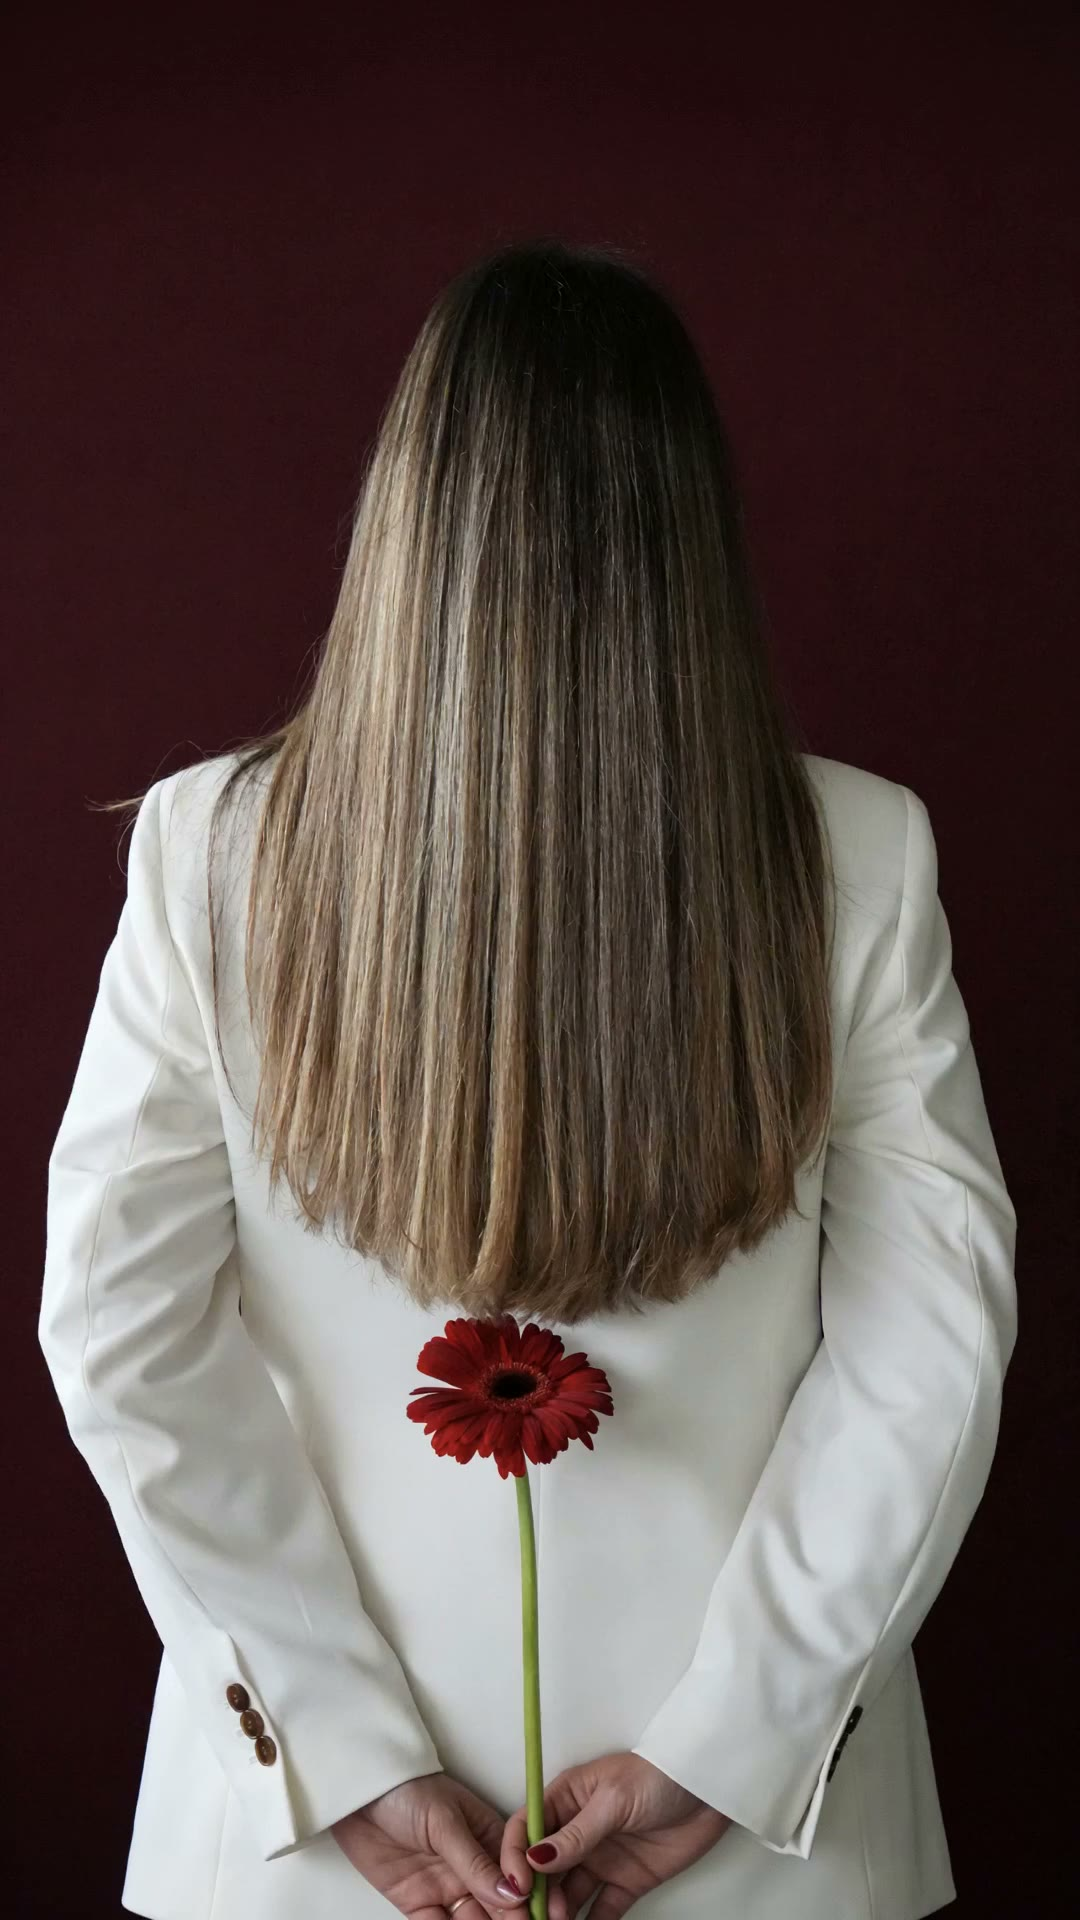
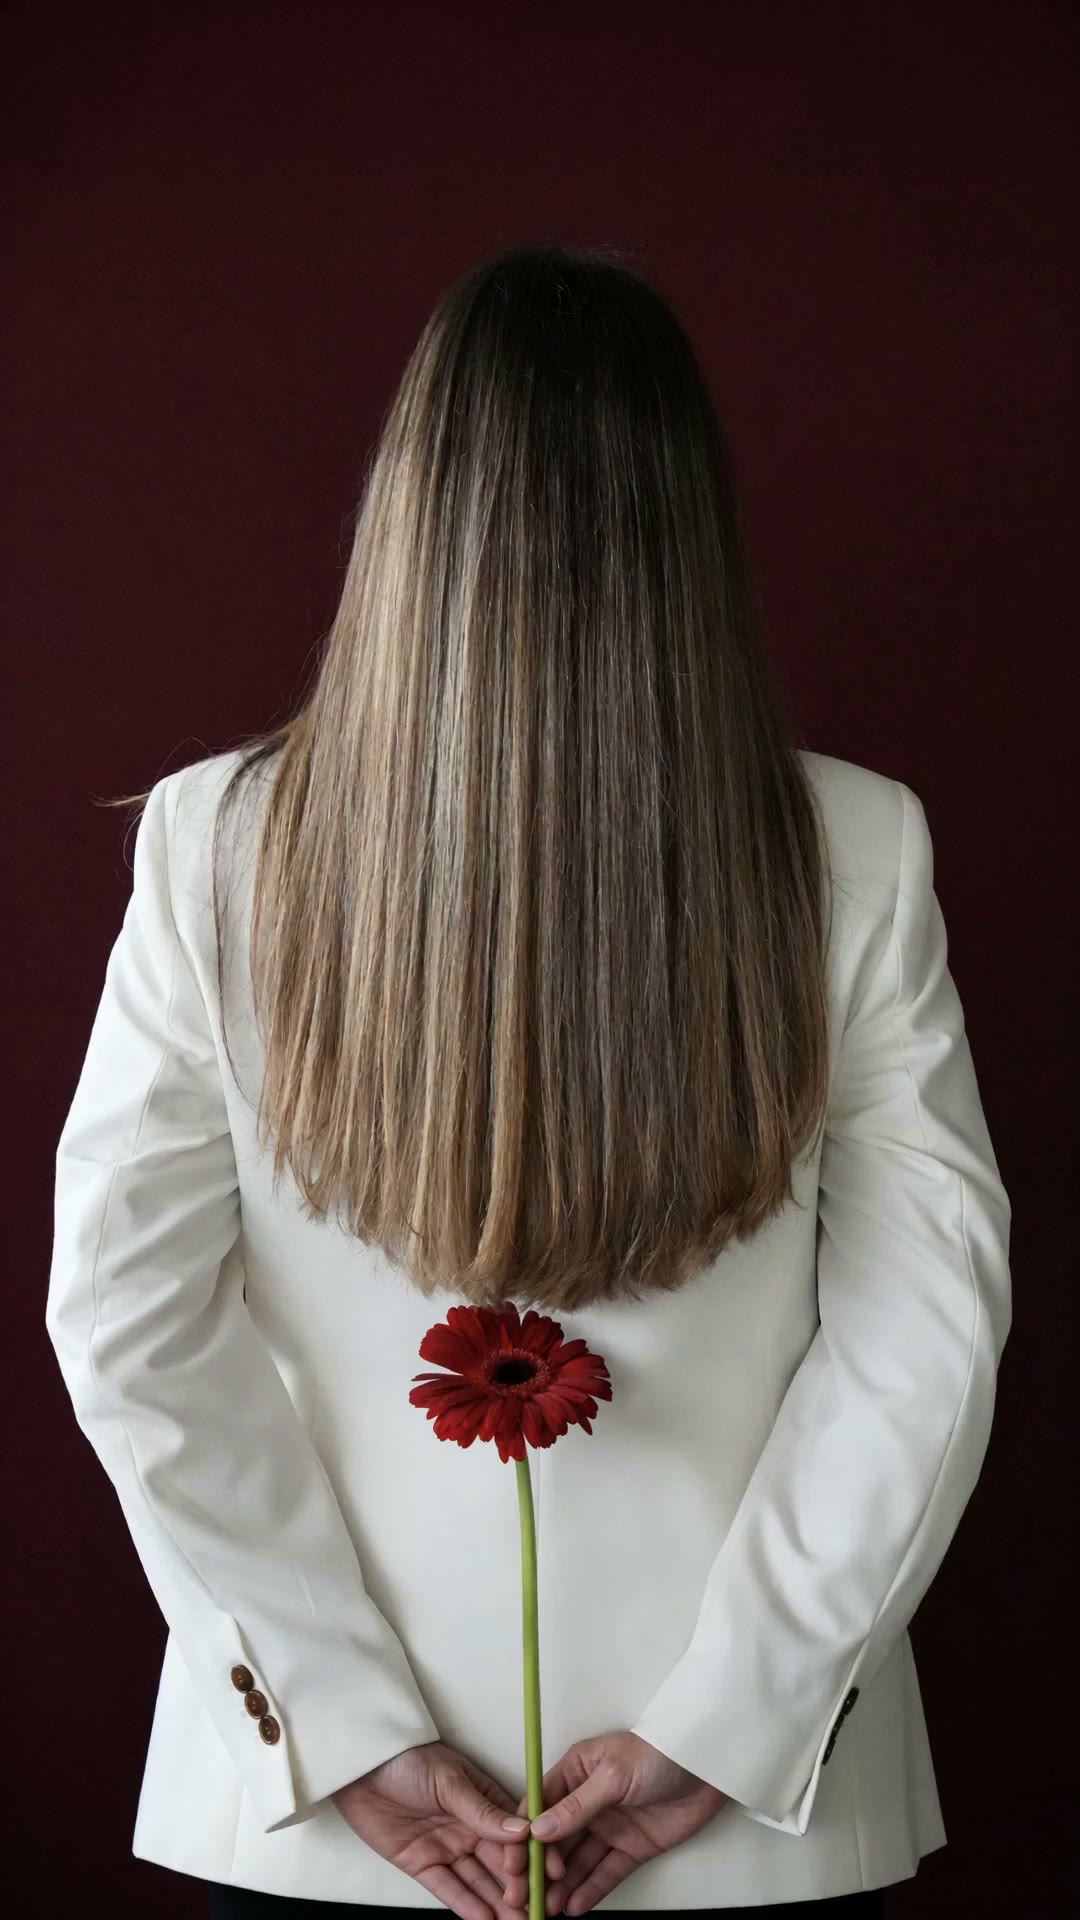
Swap hero video to lumina-hero-scrub (8s, all-keyframe)

diff --git a/index.html b/index.html
@@ -20,7 +20,7 @@
     <link rel="preconnect" href="https://fonts.googleapis.com" />
     <link rel="preconnect" href="https://fonts.gstatic.com" crossorigin />
     <link href="https://fonts.googleapis.com/css2?family=Cormorant+Garamond:ital,wght@0,400;0,500;0,600;1,400;1,500&family=Frank+Ruhl+Libre:wght@300;400;500;700&family=Heebo:wght@200;300;400;500&display=swap" rel="stylesheet" />
-    <script type="module" crossorigin src="./assets/index-DhcGdYfM.js"></script>
+    <script type="module" crossorigin src="./assets/index-1M1ijOxd.js"></script>
     <link rel="stylesheet" crossorigin href="./assets/index-D3YORKEM.css">
   </head>
   <body>